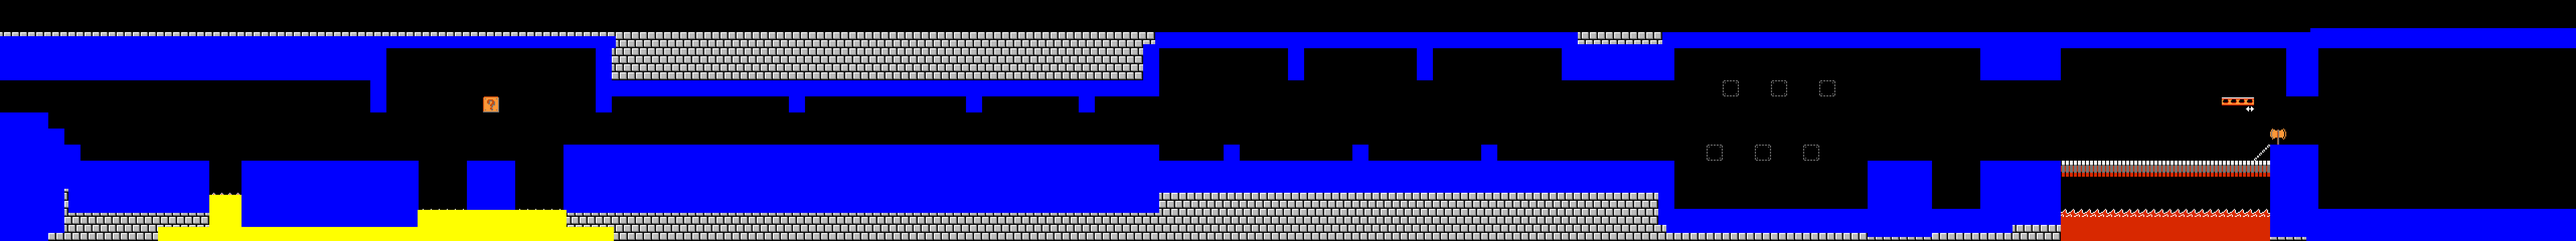
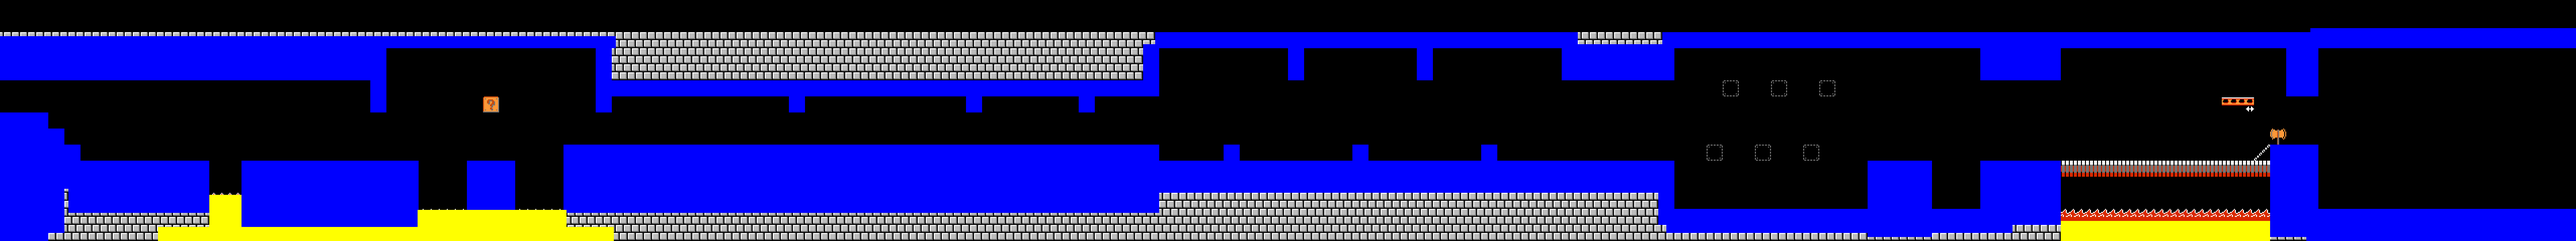
김경윤 : StateUnit - DeadCollisionCheck 함수 추가로 Yellow Color와 만나면 죽는 기능을 구현 (몬스터의 경우에는 바로 일정 시간뒤에 Destory)

Changed region(s): [[0.7812, 0.9167, 0.9062, 1.0]]

diff --git a/Mario/MarioContents/MonsterUnit.cpp b/Mario/MarioContents/MonsterUnit.cpp
@@ -161,12 +161,30 @@ void AMonsterUnit::CollisionStateChange(ECollisionState _CollisionState)
 	SetCollisionState(_CollisionState);
 }
 
+void AMonsterUnit::DeadCollisionCheck()
+{
+	UStateUnit::DeadCollisionCheck();
+	
+	if (true == MonsterDead)
+	{
+		return;
+	}
+
+	Color8Bit Color = UContentsFunction::GetCollisionMapImg()->GetColor(GetActorLocation().iX(), GetActorLocation().iY(), UInGameValue::CollisionColor);
+
+	if (Color8Bit::YellowA == Color)
+	{
+		MonsterDead = true;
+		Destroy(2.0f);
+	}
+}
+
 void AMonsterUnit::CalGravityVelocityVector(float _DeltaTime)
 {
 	std::vector<UCollision*> Result = std::vector<UCollision*>();
 	Color8Bit Color = UContentsFunction::GetCollisionMapImg()->GetColor(GetActorLocation().iX(), GetActorLocation().iY(), UInGameValue::CollisionColor);
 
-	if (UInGameValue::CollisionColor == Color || true == FootCollision->CollisionCheck(ECollisionOrder::BlockTop, Result))
+	if (false == MonsterDead && UInGameValue::CollisionColor == Color || true == FootCollision->CollisionCheck(ECollisionOrder::BlockTop, Result))
 	{
 		GravityVelocityVector = FVector::Zero;
 		SetGravityRatio(0.0f);

diff --git a/Mario/MarioContents/MonsterUnit.h b/Mario/MarioContents/MonsterUnit.h
@@ -24,6 +24,7 @@ protected:
 	void StateUpdate(float _DeltaTime) override;
 	void StateChange(EActorState _ActorState) override;
 	void CollisionStateChange(ECollisionState _CollisionState) override;
+	void DeadCollisionCheck() override;
 
 
 	virtual void FirstInit(float _DeltaTime) {};
@@ -55,6 +56,6 @@ protected:
 	UCollision* FootCollision = nullptr;
 
 private:
-
+	bool MonsterDead = false;
 };
 

diff --git a/Mario/MarioContents/StateUnit.h b/Mario/MarioContents/StateUnit.h
@@ -96,6 +96,7 @@ protected:
 	virtual void CollisionUpdate(float _DeltaTime);
 	virtual void CollisionStateChange(ECollisionState _CollisionState) {};
 	virtual void CollisionCheck() {};
+	virtual void DeadCollisionCheck() {};
 	void SetCollisionState(ECollisionState _CollisionState)
 	{
 		ActorCollisionState = _CollisionState;

diff --git a/Mario/MarioContents/StateUnit.cpp b/Mario/MarioContents/StateUnit.cpp
@@ -25,8 +25,8 @@ void UStateUnit::Tick(float _DeltaTime)
 void UStateUnit::CollisionUpdate(float _DeltaTime)
 {
 	CollisionCheck();
+	DeadCollisionCheck();
 }
-
 
 
 void UStateUnit::CalTotalVelocityVector(float _DeltaTime)

diff --git a/Mario/MarioContents/Koopa.cpp b/Mario/MarioContents/Koopa.cpp
@@ -211,6 +211,8 @@ void AKoopa::Jump(float _DeltaTime)
 
 void AKoopa::CollisionCheck()
 {
+
+
 	if (true == ACastleBridge::PlayerIsTagBridgeFlag())
 	{
 		if (true == Dying)
